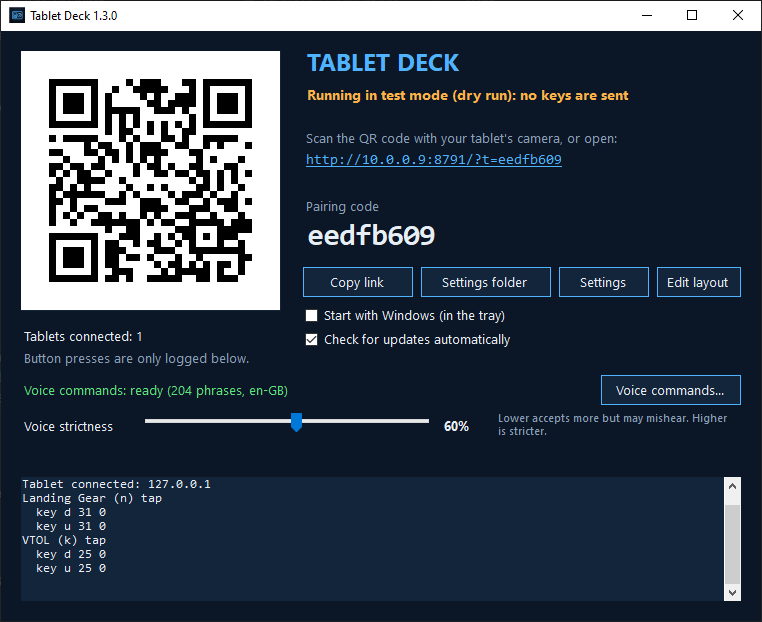
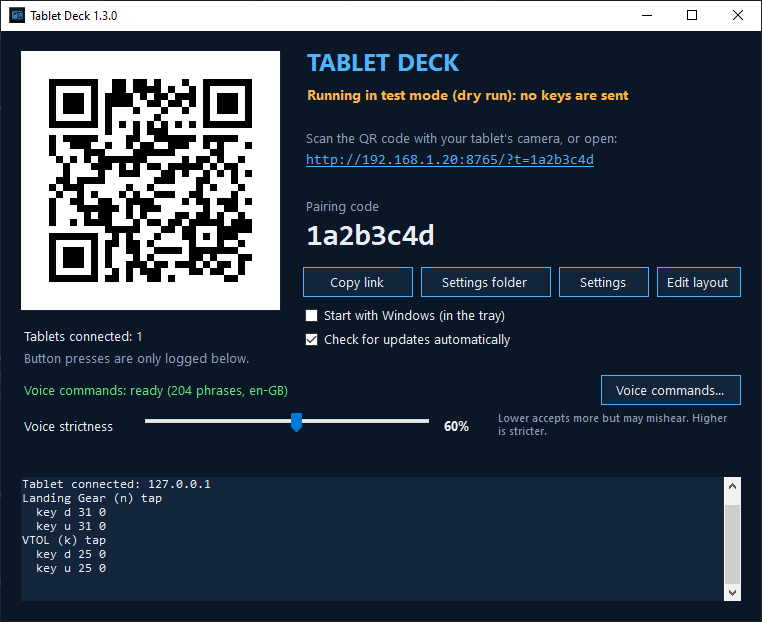
Keep local details out of the build and screenshots
- scripts/build.js gives the packer paths relative to the repository, so the
  packed server no longer carries the folder it was built in.
- docs/app-window.png shows the README's example address and pairing code
  (http://192.168.1.20:8765, 1a2b3c4d) and their QR code.

Changed region(s): [[0.0604, 0.1222, 0.332, 0.4582], [0.4829, 0.2444, 0.7848, 0.2749], [0.3924, 0.336, 0.5735, 0.3971]]

diff --git a/scripts/build.js b/scripts/build.js
@@ -153,13 +153,15 @@ async function buildApp() {
   // A packed app can't list its files, so the list goes in too (for the layout editor).
   fs.writeFileSync(path.join(BUILD, "bundled-files.json"), JSON.stringify(assets));
   const blob = path.join(BUILD, "sea.blob");
+  // Paths relative to the repository: the script's path ends up inside the .exe, and it
+  // shouldn't carry the folder it was built in.
   fs.writeFileSync(path.join(BUILD, "sea-config.json"), JSON.stringify({
-    main: path.join(BUILD, "bundle.js"),
-    output: blob,
+    main: "build/bundle.js",
+    output: "build/sea.blob",
     disableExperimentalSEAWarning: true,
-    assets: { ...Object.fromEntries(assets.map((a) => [a, path.join(ROOT, a)])), "bundled-files.json": path.join(BUILD, "bundled-files.json") },
+    assets: { ...Object.fromEntries(assets.map((a) => [a, a])), "bundled-files.json": "build/bundled-files.json" },
   }, null, 2));
-  run(process.execPath, ["--experimental-sea-config", path.join(BUILD, "sea-config.json")]);
+  execFileSync(process.execPath, ["--experimental-sea-config", "build/sea-config.json"], { cwd: ROOT, stdio: "inherit" });
   console.log(`${assets.length} bundled files`);
 
   const exe = path.join(APP, "TabletDeckServer.exe");
